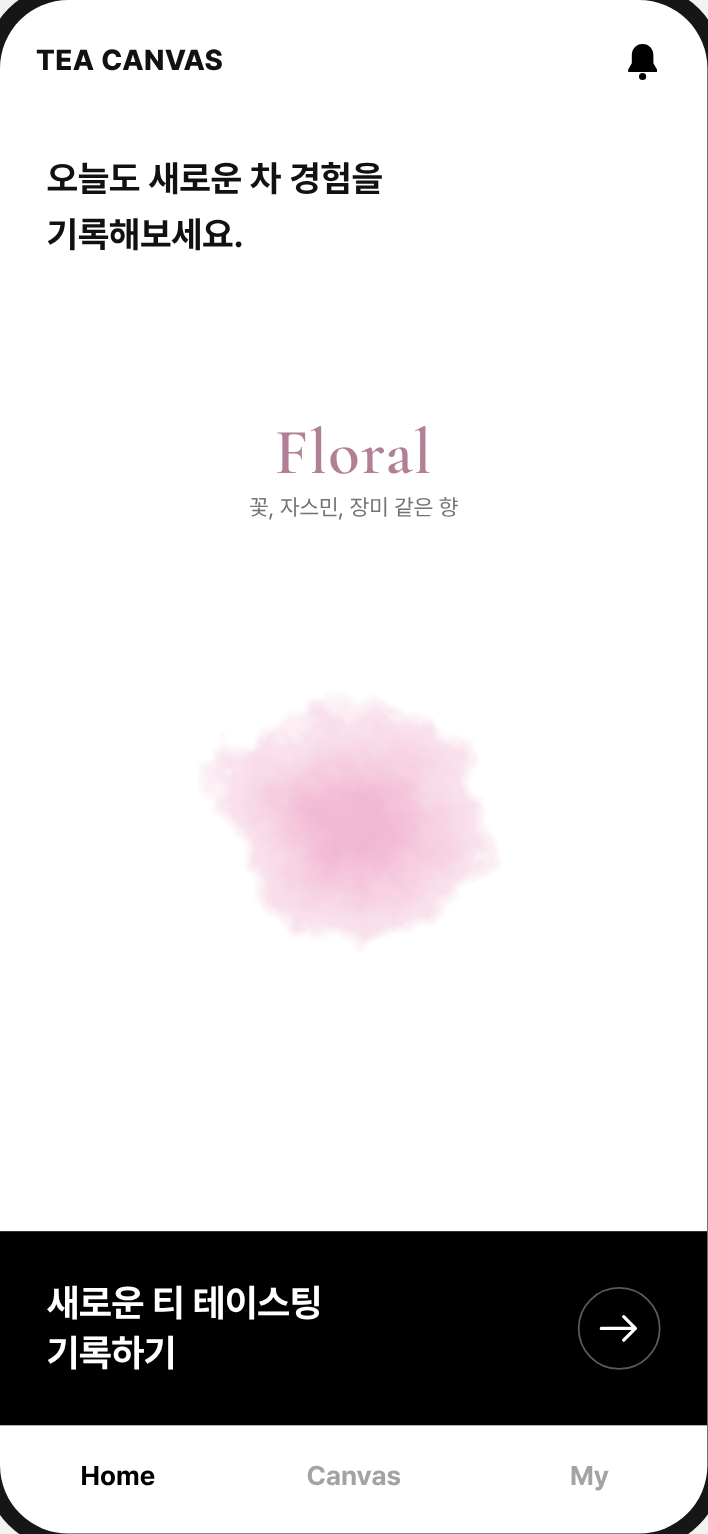
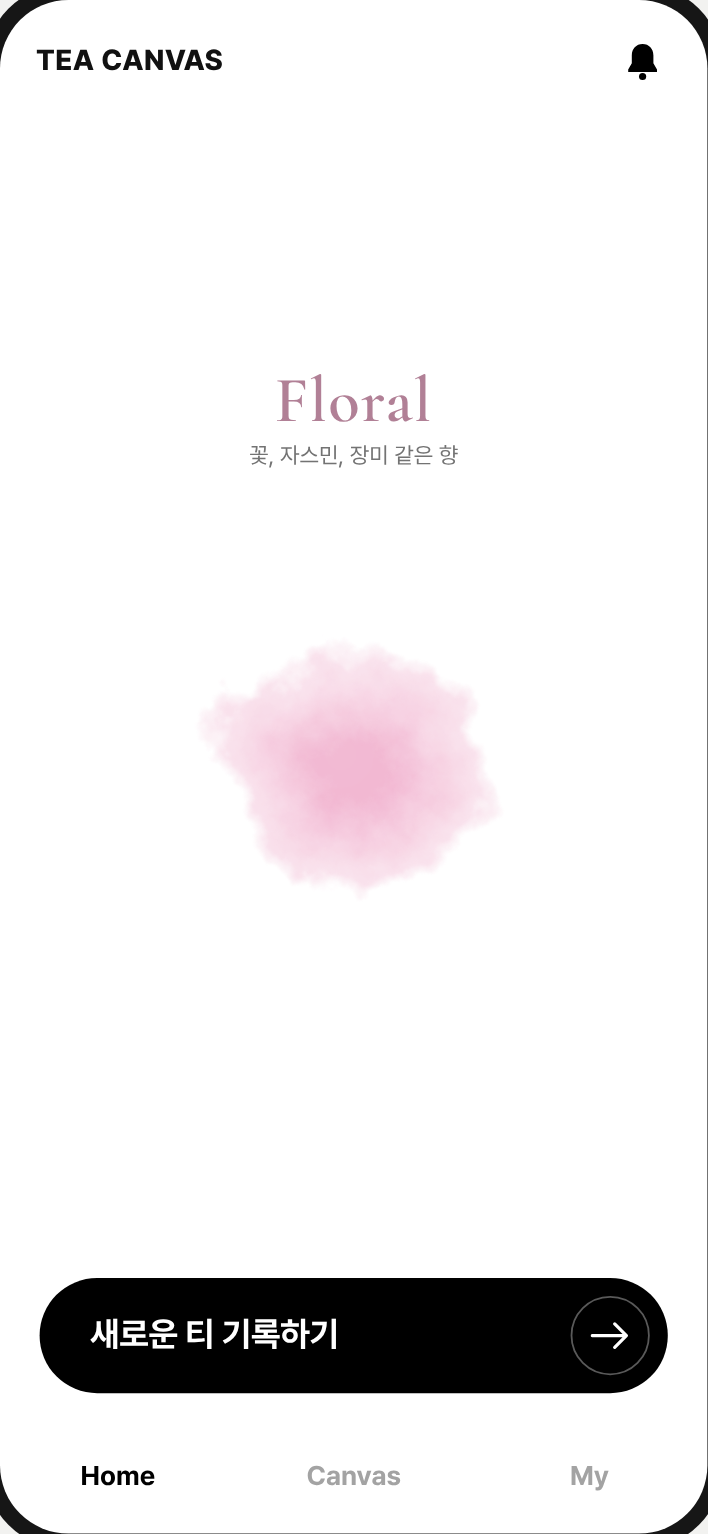
v5 홈: 인사 문구 제거, 둥근 버튼 '새로운 티 기록하기' 한 줄, 번짐 크기는 이전 그대로
Claude-Session: https://claude.ai/code/session_01VYi7RYbVTTHX5Zvyr9oi23

diff --git a/TEA_CANVAS_prototype_v5.html b/TEA_CANVAS_prototype_v5.html
@@ -318,6 +318,9 @@ canvas.wcd.big{margin:14px auto}
 .bigbtn:active{background:#333}
 .bigbtn i{width:46px;height:46px;border-radius:50%;border:1px solid rgba(255,255,255,.35);display:grid;place-items:center;transition:transform .3s}
 .bigbtn:hover i{transform:translateX(3px)}
+/* 둥근 버튼(알약 모양) */
+.home .bigbtn{width:auto;min-height:0;height:64px;margin:0 22px 18px;padding:0 10px 0 28px;border-radius:32px;font-size:19px}
+.home .bigbtn i{width:44px;height:44px}
 
 /* camera button */
 .cambtn{display:flex;flex-direction:column;align-items:center;gap:6px;margin:18px auto 0;font-size:12.5px;color:#444}
@@ -997,9 +1000,8 @@ const SCREENS = {
 
 home(){
   return `<div class="home">
-    <h2 class="hello">오늘도 새로운 차 경험을<br>기록해보세요.</h2>
     <div class="home-drop" id="homeDrop"></div>
-    <button class="bigbtn" onclick="startRecord()"><span>새로운 티 테이스팅<br>기록하기</span><i>${I.arrow}</i></button>
+    <button class="bigbtn" onclick="startRecord()"><span>새로운 티 기록하기</span><i>${I.arrow}</i></button>
   </div>`;
 },
 
